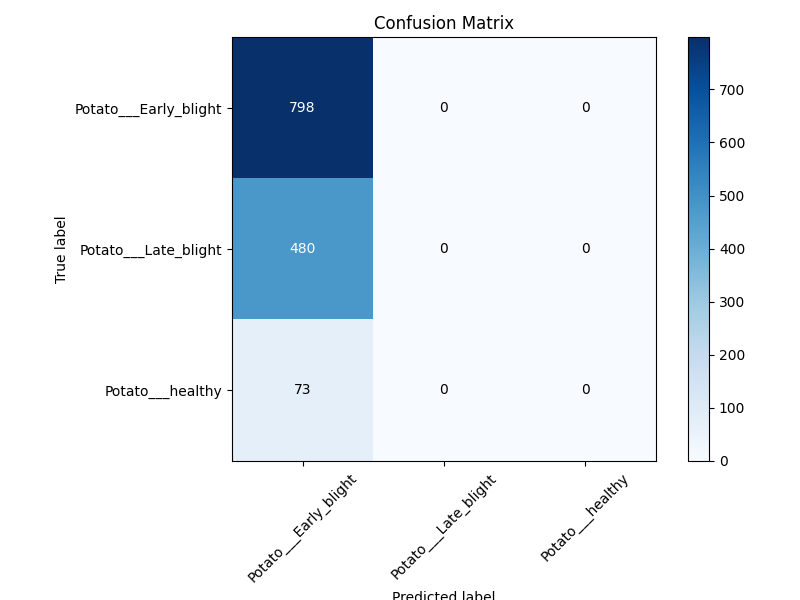
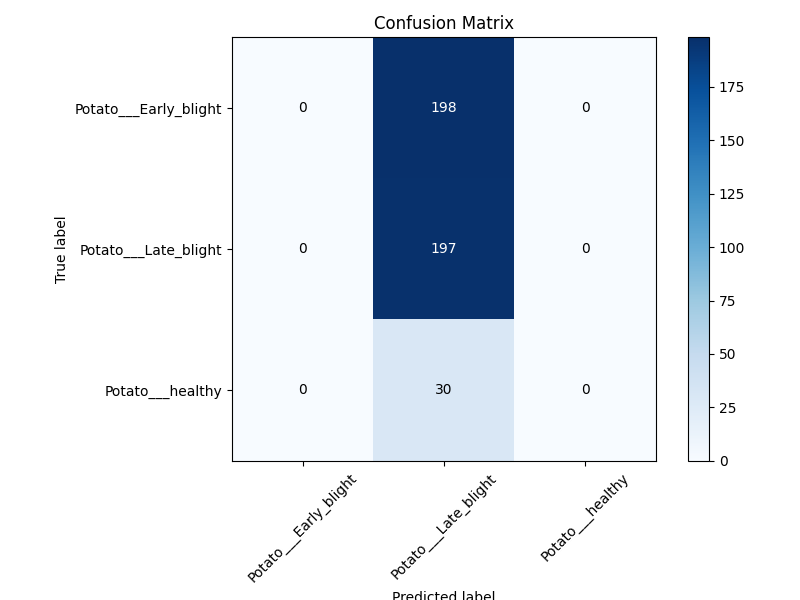
Improve model training with better data augmentation, class weighting, and architecture

diff --git a/train.py b/train.py
@@ -3,7 +3,7 @@ import numpy as np
 import tensorflow as tf
 from tensorflow.keras.preprocessing.image import ImageDataGenerator
 from tensorflow.keras.models import Sequential
-from tensorflow.keras.layers import Flatten, Dense, Dropout, GlobalAveragePooling2D
+from tensorflow.keras.layers import Flatten, Dense, Dropout, GlobalAveragePooling2D, BatchNormalization
 from tensorflow.keras.callbacks import EarlyStopping, ModelCheckpoint
 import matplotlib.pyplot as plt
 from sklearn.metrics import confusion_matrix, classification_report
@@ -56,19 +56,24 @@ if not (check_directory(train_dir) and check_directory(val_dir)):
     print(" Please check your data directories and try again.")
     exit(1)
 
-# Data augmentation and preprocessing
+# Enhanced data augmentation and preprocessing
 train_datagen = ImageDataGenerator(
     rescale=1./255,
-    rotation_range=20,
+    rotation_range=30,
     width_shift_range=0.2,
     height_shift_range=0.2,
     shear_range=0.2,
-    zoom_range=0.2,
+    zoom_range=0.3,
     horizontal_flip=True,
-    fill_mode='nearest'
+    vertical_flip=True,
+    brightness_range=[0.8, 1.2],
+    fill_mode='nearest',
+    validation_split=0.2  # Use 20% of training data for validation
 )
 
-val_datagen = ImageDataGenerator(rescale=1./255)
+val_datagen = ImageDataGenerator(
+    rescale=1./255
+)
 
 # Load training data
 print("\nLoading training data...")
@@ -78,80 +83,95 @@ train_generator = train_datagen.flow_from_directory(
     batch_size=BATCH_SIZE,
     class_mode='categorical',
     classes=CLASS_NAMES,
-    shuffle=True
+    shuffle=True,
+    subset='training'
 )
 
-# Load validation data
-print("\nLoading validation data...")
-validation_generator = val_datagen.flow_from_directory(
-    val_dir,
+validation_generator = train_datagen.flow_from_directory(
+    train_dir,
     target_size=IMG_SIZE,
     batch_size=BATCH_SIZE,
     class_mode='categorical',
     classes=CLASS_NAMES,
-    shuffle=False
+    shuffle=False,
+    subset='validation'
 )
 
-# Calculate class weights
-def calculate_class_weights(generator):
-    class_counts = {}
-    for _, labels in generator:
-        y_indices = np.argmax(labels, axis=1)
-        for idx in y_indices:
-            class_counts[idx] = class_counts.get(idx, 0) + 1
-        if len(class_counts) == len(generator.class_indices):
-            break
-    
-    total_samples = sum(class_counts.values())
-    num_classes = len(class_counts)
-    
-    class_weights = {}
-    for class_idx in class_counts:
-        class_weights[class_idx] = total_samples / (num_classes * class_counts[class_idx])
-    
-    print("Class weights:", class_weights)
-    return class_weights
+# Calculate class weights with more emphasis on minority classes
+class_weights = {}
+total_samples = sum([len(files) for _, _, files in os.walk(train_dir) if files])
+for i, cls in enumerate(CLASS_NAMES):
+    class_path = os.path.join(train_dir, cls)
+    if os.path.exists(class_path):
+        num_samples = len([f for f in os.listdir(class_path) if os.path.isfile(os.path.join(class_path, f))])
+        class_weights[i] = (1 / num_samples) * (total_samples / len(CLASS_NAMES))
 
-class_weights = calculate_class_weights(train_generator)
+print("Class weights:", class_weights)
 
 # Reset generators
 train_generator.reset()
 validation_generator.reset()
 
-# Build transfer learning model (EfficientNetB0)
+# Build transfer learning model (EfficientNetB0 with fine-tuning)
 base_model = tf.keras.applications.EfficientNetB0(
     input_shape=(256, 256, 3),
     include_top=False,
-    weights='imagenet'
+    weights='imagenet',
+    pooling='avg'  # Use global average pooling directly
 )
-base_model.trainable = False  # Freeze base model
+
+# Unfreeze some top layers for fine-tuning
+base_model.trainable = False
+for layer in base_model.layers[-20:]:
+    if not isinstance(layer, tf.keras.layers.BatchNormalization):
+        layer.trainable = True
 
 model = Sequential([
     base_model,
-    GlobalAveragePooling2D(),
-    Dense(128, activation='relu'),
+    Dropout(0.3),
+    Dense(256, activation='relu'),
+    BatchNormalization(),
     Dropout(0.5),
     Dense(3, activation='softmax')
 ])
 
-# Compile model
+# Compile model with class weights
 model.compile(
-    optimizer=tf.keras.optimizers.Adam(learning_rate=0.0001),
+    optimizer=tf.keras.optimizers.Adam(learning_rate=1e-4),
     loss='categorical_crossentropy',
-    metrics=['accuracy']
+    metrics=['accuracy', 
+             tf.keras.metrics.Precision(name='precision'),
+             tf.keras.metrics.Recall(name='recall')]
 )
 
-# Callbacks
-callbacks = [
-    EarlyStopping(monitor='val_loss', patience=5, restore_best_weights=True),
-    ModelCheckpoint(
-        'potato_disease_model.keras',
-        save_best_only=True,
-        save_weights_only=False,
-        monitor='val_accuracy',
-        mode='max'
-    )
-]
+# Learning rate scheduler
+reduce_lr = tf.keras.callbacks.ReduceLROnPlateau(
+    monitor='val_loss',
+    factor=0.2,
+    patience=3,
+    min_lr=1e-6,
+    verbose=1
+)
+
+# Early stopping
+early_stopping = EarlyStopping(
+    monitor='val_loss',
+    patience=10,
+    restore_best_weights=True,
+    verbose=1
+)
+
+# Model checkpoint
+model_checkpoint = ModelCheckpoint(
+    'potato_disease_model.keras',
+    save_best_only=True,
+    save_weights_only=False,
+    monitor='val_accuracy',
+    mode='max',
+    verbose=1
+)
+
+callbacks = [reduce_lr, early_stopping, model_checkpoint]
 
 # Print model summary
 model.summary()
